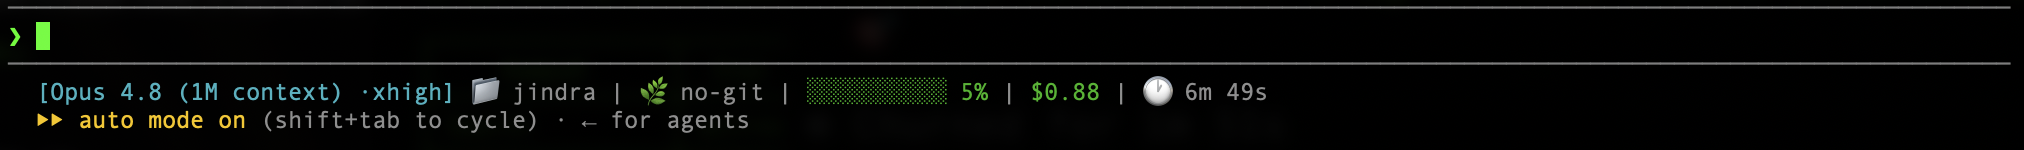
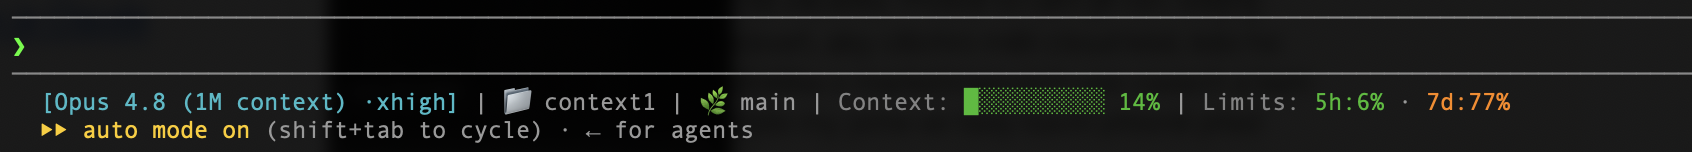
Simplify statusline: labelled Context/Limits, drop cost & duration
- Drop session cost ($) and duration (🕐) segments — less clutter
- Add dim grey Context:/Limits: labels so metrics are self-explanatory
- Replace `seq` loop with pure-bash; document locale/git portability
- Refresh README: new layout, cross-platform (macOS/Linux + Windows/Git Bash) install, real raw URL, new screenshot

diff --git a/README.md b/README.md
@@ -1,12 +1,12 @@
 # Claude Code statusline
 
-Jednoduchá, ale informačně hutná **status line pro [Claude Code](https://claude.com/claude-code)** — jeden bash skript, žádné závislosti navíc kromě `jq`. Ukazuje model, zaplnění kontextu, cenu session, čas, git větev a čerpání limitů předplatného v jednom řádku.
+Jednoduchá, ale informačně hutná **status line pro [Claude Code](https://claude.com/claude-code)** — jeden bash skript, žádné závislosti navíc kromě `jq`. Ukazuje model, aktuální složku, git větev, zaplnění kontextu a čerpání limitů předplatného v jednom řádku.
 
 ```
-[Opus 4.8 (1M context) ·xhigh] 📁 youtubedb | 🌿 main± | ████░░░░░░ 47% | $1.23 | 🕐 1h 2m | ⏳ 5h:38% · 7d:72%
+[Opus 4.8 (1M context) ·xhigh] | 📁 youtubedb | 🌿 main± | Context: ████░░░░░░ 47% | Limits: 5h:38% · 7d:72%
 ```
 
-> Náhled v reálu (přidej si vlastní screenshot do `assets/`):
+> Náhled v reálu:
 >
 > ![Náhled statusline](assets/screenshot.png)
 
@@ -17,10 +17,8 @@ Jednoduchá, ale informačně hutná **status line pro [Claude Code](https://cla
 | `[Opus 4.8 (1M context) ·xhigh]` | model + reasoning effort (`·xhigh` se skryje, když ho prostředí nehlásí — třeba při API klíči) |
 | `📁 youtubedb` | aktuální složka |
 | `🌿 main±` | git větev; `±` značí necommitnuté změny (dirty working tree) |
-| `████░░░░░░ 47%` | **zaplnění kontextového okna** — desetidílný bar, který mění barvu podle naplnění |
-| `$1.23` | odhad ceny session v USD (kolik by vyšla přes API — i na předplatném je to hezká reflexe, co session „stojí") |
-| `🕐 1h 2m` | délka session |
-| `⏳ 5h:38% · 7d:72%` | **čerpání limitů předplatného** — pětihodinové okno a týdenní strop (`rate_limits` z payloadu) |
+| `Context: ████░░░░░░ 47%` | **zaplnění kontextového okna** — desetidílný bar, který mění barvu podle naplnění |
+| `Limits: 5h:38% · 7d:72%` | **čerpání limitů předplatného** — pětihodinové okno a týdenní strop (`rate_limits` z payloadu) |
 
 Barvy zaplnění kontextu i limitů:
 
@@ -33,18 +31,18 @@ Segment limitů se zobrazuje jen na předplatném Pro/Max a naskočí až po prv
 
 ## Požadavky
 
-- **bash**
+- **bash** — na Windows přes **Git Bash** (viz [Instalace → Windows](#windows))
 - **[`jq`](https://jqlang.github.io/jq/)** — parsování JSON, který Claude Code posílá na stdin (`brew install jq`)
 - **git** — volitelně; bez gitu nebo mimo repozitář se zobrazí `no-git`
 
-> Skript je defenzivní: když `jq` chybí nebo přijde nevalidní vstup, nespadne — jen zobrazí prázdné/nulové hodnoty.
+> Skript je defenzivní: když `jq` chybí nebo přijde nevalidní vstup, nespadne — jen zobrazí prázdné/nulové hodnoty. Počítá jen s celými čísly a čte git přes plumbing/porcelain, takže **nezávisí na jazyku systému** (funguje i na neanglické locale).
 
 ## Instalace
 
 1. Stáhni `statusline.sh` (klidně do `~/.claude/statusline.sh`) a nastav mu práva ke spuštění:
 
    ```bash
-   curl -o ~/.claude/statusline.sh https://raw.githubusercontent.com/<tvuj-github>/claude-code-statusline/main/statusline.sh
+   curl -o ~/.claude/statusline.sh https://raw.githubusercontent.com/faborsky/claude-code-statusline/main/statusline.sh
    chmod +x ~/.claude/statusline.sh
    ```
 
@@ -54,12 +52,23 @@ Segment limitů se zobrazuje jen na předplatném Pro/Max a naskočí až po prv
    {
      "statusLine": {
        "type": "command",
-       "command": "/Users/<ty>/.claude/statusline.sh"
+       "command": "~/.claude/statusline.sh"
      }
    }
    ```
 
+   > `~` (i `$HOME`) se expanduje správně na macOS, Linuxu **i Windows**.
+
 3. Otevři novou session — status line se objeví dole.
+
+### Windows
+
+statusLine command se na Windows spouští v **Git Bash** (a jako fallback PowerShell). Bash skript funguje beze změny, když máš nainstalovaný [Git for Windows](https://git-scm.com/download/win) (Git Bash) — což při práci s gitem skoro jistě máš:
+
+- V cestách používej **lomítka dopředu** (`~/.claude/statusline.sh` nebo `C:/Users/<ty>/.claude/statusline.sh`), ne zpětná.
+- ANSI barvy i emoji fungují (Git Bash / Windows Terminal).
+
+Bez Git Bashe (čistě PowerShell) by skript potřeboval PowerShell port — ten tu zatím není.
 
 ## Přizpůsobení
 
@@ -68,7 +77,7 @@ Celé je to jeden krátký skript, takže úpravy jsou triviální:
 - **Prahy barev kontextu a limitů** — hodnoty `50 / 70 / 90` ve funkci `pct_color`.
 - **Layout / pořadí polí** — finální `printf` na konci souboru.
 - **Délka baru** — desetidílný bar v sekci *„10-segment progress bar"*.
-- **Emoji** — `📁 🌿 🕐` v `printf` (standardní emoji, nepotřebuješ Nerd Font).
+- **Labely a emoji** — text `Context:` / `Limits:` a `📁 🌿` v `printf` (standardní emoji, nepotřebuješ Nerd Font).
 
 ## Jak se počítá kontext
 
@@ -78,7 +87,7 @@ Skript bere primárně `context_window.used_percentage` z payloadu Claude Code (
 
 Vychází ze statusline ukázané v tutoriálu **Leonarda Grigoria** — *„My actual Claude Code workflow"* ([YouTube](https://www.youtube.com/watch?v=Hhiwq1aHK7o), kanál [Build & Ship with AI](https://www.youtube.com/@leonardogrig)).
 
-Tahle verze je **podstatně upravená**: jeden `jq` průchod místo pěti, primárně přesné `used_percentage` s fallbackem, vlastní prahy barev a desetidílný bar, ošetření chyb. Díky Leonardovi za původní nápad. 🙏
+Tahle verze je **podstatně upravená**: jeden `jq` průchod místo pěti, primárně přesné `used_percentage` s fallbackem, vlastní prahy barev a desetidílný bar, labely Context:/Limits: a ošetření chyb. Díky Leonardovi za původní nápad. 🙏
 
 ## Licence
 
